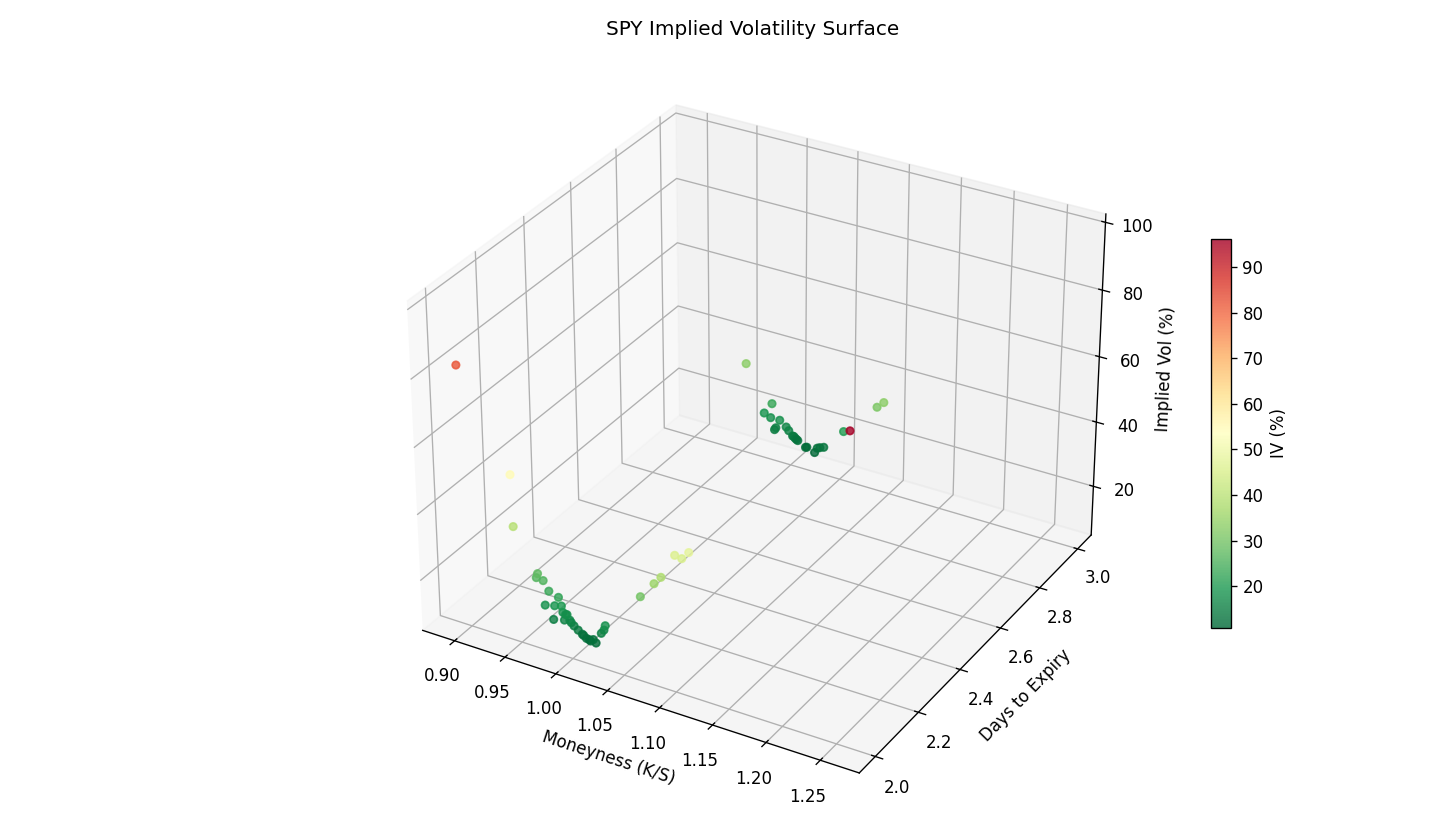
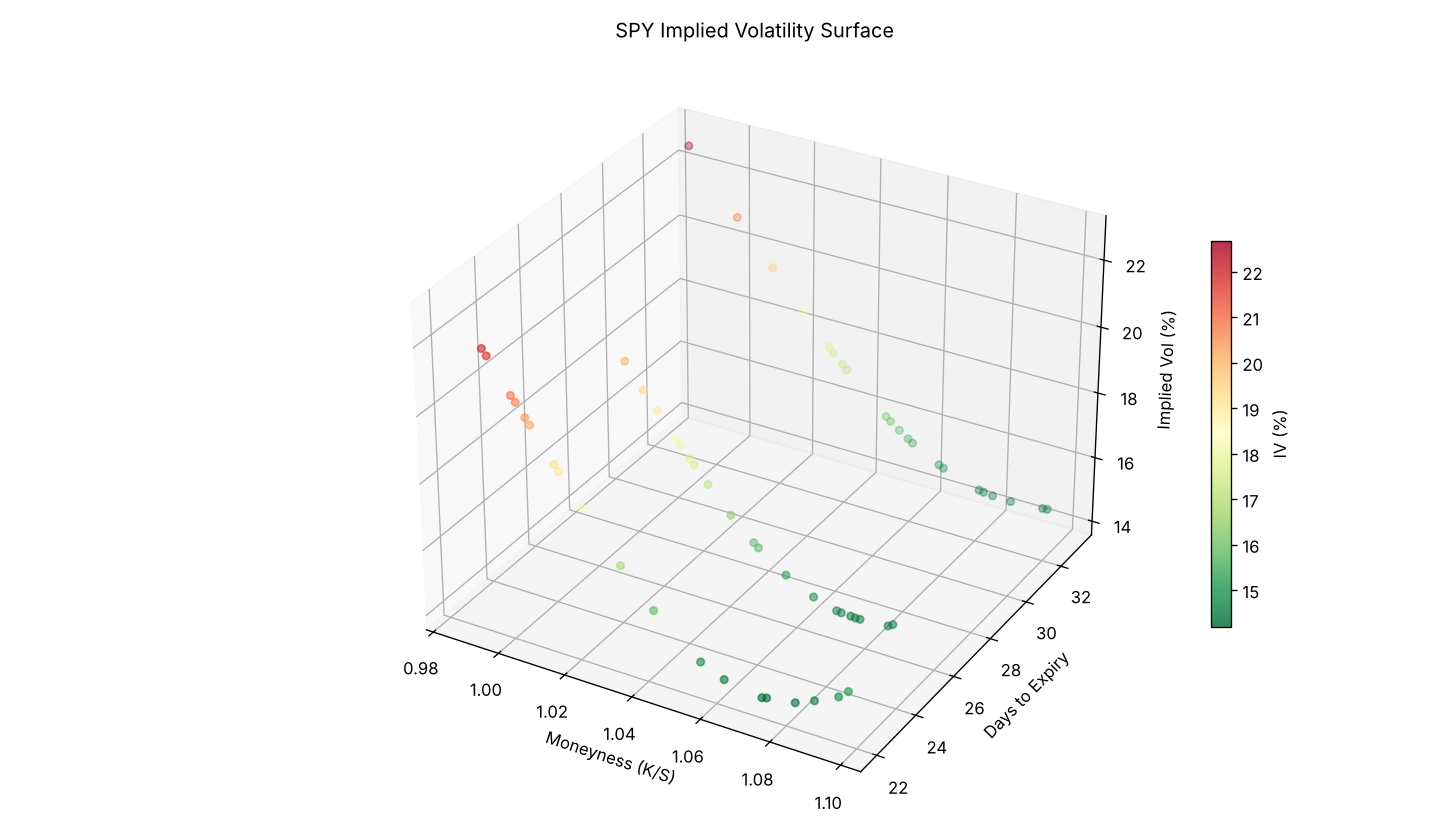
Calibrate Heston on 3+ week expiries and near-the-money calls; regenerate outputs
Claude-Session: https://claude.ai/code/session_013eQQvYHVTVmceFoGWDDi5H

diff --git a/calibration/calibrate_heston.py b/calibration/calibrate_heston.py
@@ -57,17 +57,21 @@ def calibrate(r=0.05, n_expiries=3):
     iv_df = compute_market_iv(data, r)
     print(f"[calibrate] {len(iv_df)} options with valid market IV.")
 
+    # Deep ITM/OTM quotes are illiquid and stale; calibrate on near-the-money and OTM calls (ITM quotes carry early-exercise and staleness noise).
+    iv_df = iv_df[(iv_df["moneyness"] >= 0.98) & (iv_df["moneyness"] <= 1.10)]
+    print(f"[calibrate] {len(iv_df)} options with moneyness in [0.98, 1.10].")
+
     # Subsample for speed: at most 60 options
     if len(iv_df) > 60:
         iv_df = iv_df.sample(60, random_state=42)
 
     x0 = [0.04, 2.0, 0.04, 0.3, -0.7]
-    bounds = [(1e-4, 0.5), (0.1, 10.0), (1e-4, 0.5), (0.05, 1.0), (-0.99, 0.0)]
+    # Bounds are enforced inside heston_rmse (returns a large penalty outside).
 
-    print("[calibrate] Running L-BFGS-B optimization...")
+    print("[calibrate] Running Nelder-Mead optimization...")
     res = minimize(heston_rmse, x0, args=(iv_df, r),
-                   method="L-BFGS-B", bounds=bounds,
-                   options={"maxiter": 200, "ftol": 1e-8})
+                   method="Nelder-Mead",
+                   options={"maxiter": 400, "xatol": 1e-4, "fatol": 1e-8})
 
     v0, kappa, theta, sigma_v, rho = res.x
     rmse = res.fun

diff --git a/calibration/market_data.py b/calibration/market_data.py
@@ -5,15 +5,20 @@ import pandas as pd
 from datetime import datetime, timedelta
 
 
-def fetch_spy_options(n_expiries=3):
-    """Return list of (expiry_str, calls_df, puts_df, S, T_years)."""
+def fetch_spy_options(n_expiries=3, min_days=21):
+    """Return list of (expiry_str, calls_df, puts_df, S, T_years).
+
+    Expiries closer than ``min_days`` are skipped: a diffusive Heston model
+    cannot fit the very wide smiles of options a few days from expiry.
+    """
     try:
         import yfinance as yf
         ticker = yf.Ticker("SPY")
         S = ticker.history(period="1d")["Close"].iloc[-1]
-        exps = ticker.options[:n_expiries]
-        result = []
         today = datetime.today()
+        exps = [e for e in ticker.options
+                if (datetime.strptime(e, "%Y-%m-%d") - today).days >= min_days][:n_expiries]
+        result = []
         for exp in exps:
             chain = ticker.option_chain(exp)
             T = (datetime.strptime(exp, "%Y-%m-%d") - today).days / 365.0

diff --git a/README.md b/README.md
@@ -132,4 +132,5 @@ python integration/garch_integration.py  # GARCH vs IV
 - **Delta-hedge simulation fixed.** The terminal P&L added the call payoff to a book that was short the option, so the "hedged" P&L was just the option payoff (mean ~13, std ~38 on a premium of ~13). The book is now a long call hedged with short stock; the P&L is centred on zero, its dispersion shrinks as rebalancing gets more frequent, and a financing-carry term closes the gamma/theta attribution (residual mean ~0).
 - **Mock GARCH forecasts** mixed annual-vol levels with a daily-scale `omega`, so the series decayed to ~1% vol. It is now variance-targeted around 18% annual vol.
 - `pytest` (BSM Greeks vs finite differences, put-call parity, Heston vs Monte Carlo, hedge P&L) and CI added.
-- `outputs/` (figures and `calibration_results.csv`) predate these fixes; rerun `python run_all.py` to refresh them.
+- **Calibration data and optimizer.** The three nearest expiries are often only days out, and a diffusive Heston model cannot fit their wide smiles (RMSE about 9 vol points, optimizer stuck at its start values). Calibration now skips expiries under 21 days, uses only calls with moneyness in [0.98, 1.10] (deep ITM quotes are stale and carry early-exercise premium), and uses Nelder-Mead; on live SPY data the RMSE is about 1.1 vol points and the optimizer converges. `rho` lands near the -1 bound, which is typical for short-dated index smiles.
+- `outputs/` were regenerated with `python run_all.py` on live SPY data pulled on 2026-11-07; a rerun on another day will differ.
